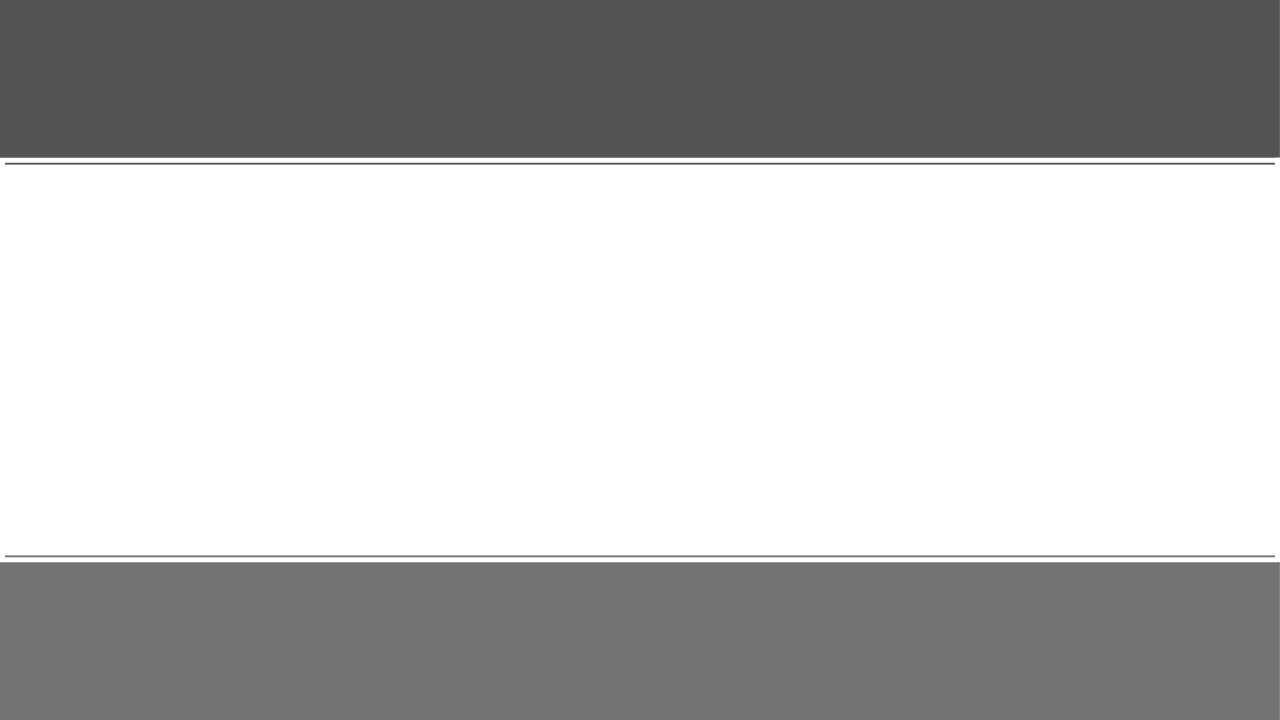
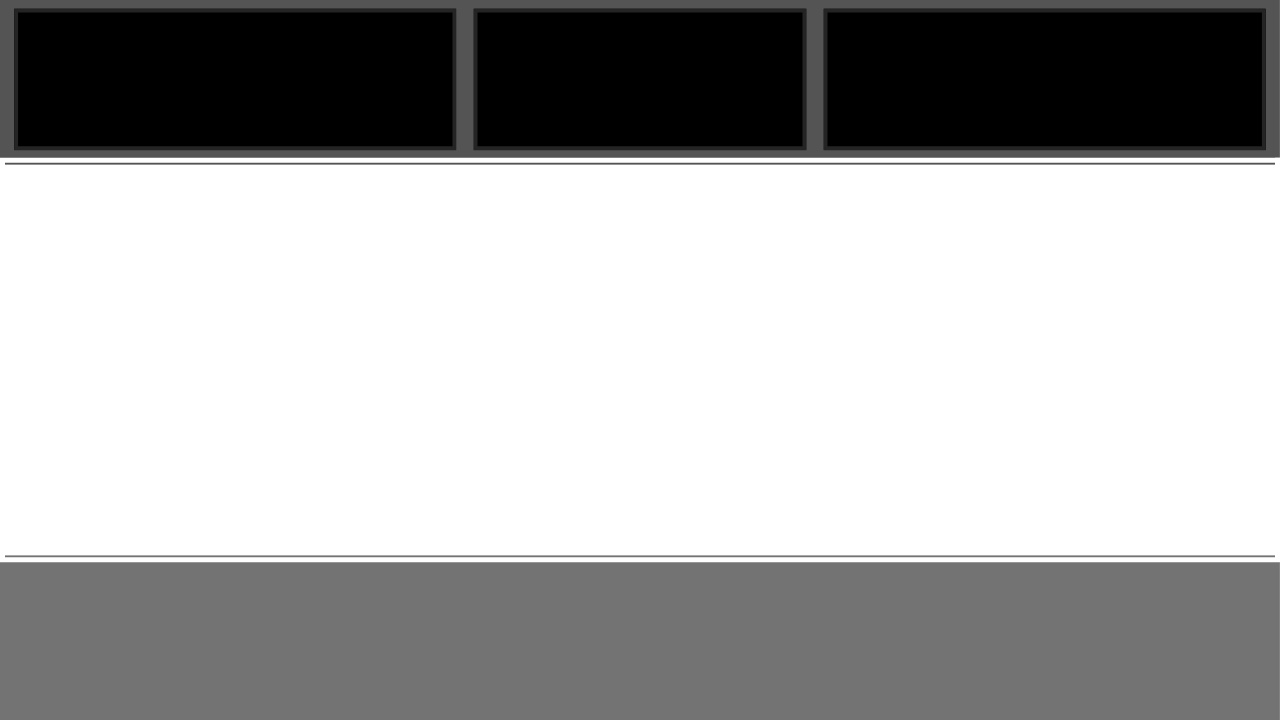
Added displays at top of screen and moved readouts

Changed region(s): [[0.0, 0.0, 1.0, 0.2139]]

diff --git a/Reactor Game/text_display_module.py b/Reactor Game/text_display_module.py
@@ -15,16 +15,30 @@ class Text_Display():
 
     def draw(self):
         suffix = ""
-        if self.special == "round":
+        if self.special == "temp":
+            display_value = int(self.value)
+            suffix = " K"
+        elif self.special == "temp_round":
             display_value = round(self.value, 3)
+            suffix = " K"
+        elif self.special == "pressure":
+            display_value = int(self.value)
+            suffix = " PSI"
+        elif self.special == "pressure_round":
+            display_value = round(self.value, 3)
+            suffix = " PSI"
+        elif self.special == "power_round":
+            display_value = int(self.value)
+            display_value = display_value / 100
+            display_value = int(display_value)
+            display_value = display_value / 10
+            suffix = " MW"
+        elif self.special == "time_left":
+            display_value = int(self.value)
+            suffix = " s"
         else:
             display_value = int(self.value)
-            if self.special == "power_round":
-                display_value = display_value / 100
-                display_value = int(display_value)
-                display_value = display_value / 10
-                suffix = " gW"
 
-        value_font = pygame.font.SysFont("comicsansms", 24)
-        value_display = value_font.render(self.title + str(display_value) + suffix, True, (0,0,0))
+        value_font = pygame.font.SysFont("calibri", 16)
+        value_display = value_font.render(self.title + str(display_value) + suffix, True, (255,255,255))
         self.screen.blit(value_display, (self.x, self.y))

diff --git a/Reactor Game/project.py b/Reactor Game/project.py
@@ -8,7 +8,7 @@ import backgrounds_module
 
 def main():
     pygame.init()
-    pygame.display.set_caption("Cool Project")
+    pygame.display.set_caption("Starfall: Hydra - Reactor Operations")
     screen = pygame.display.set_mode((1280, 720))
     clock = pygame.time.Clock()
 
@@ -40,13 +40,13 @@ def main():
         inputs.append(button)
 
     display_list = [
-        text_display_module.Text_Display(screen, 100, 50, "Power Generated: ", "power_round"),
-        text_display_module.Text_Display(screen, 100, 100, "Power Change Rate: ", "power_round"), 
-        text_display_module.Text_Display(screen, 500, 50, "Tempurature: "),
-        text_display_module.Text_Display(screen, 500, 100, "Temp Change Rate: ", "round"),
-        text_display_module.Text_Display(screen, 900, 50, "Pressure: "),  
-        text_display_module.Text_Display(screen, 900, 100, "Pressure Change Rate: ", "round"),
-        text_display_module.Text_Display(screen, 1050, 650, "Time Left: ")    
+        text_display_module.Text_Display(screen, 485, 40, "Power Generated: ", "power_round"),
+        text_display_module.Text_Display(screen, 485, 60, "Power Generation Rate: ", "power_round"), 
+        text_display_module.Text_Display(screen, 485, 80, "Temperature: ", "temp"),
+        text_display_module.Text_Display(screen, 485, 100, "Temp Change Rate: ", "temp_round"),
+        text_display_module.Text_Display(screen, 835, 20, "Pressure: ", "pressure"),
+        text_display_module.Text_Display(screen, 835, 40, "Pressure Change Rate: ", "pressure_round"),
+        text_display_module.Text_Display(screen, 485, 20, "Remaining Shift Time: ", "time_left")    
     ]
 
 